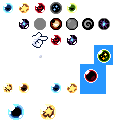
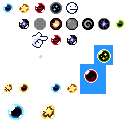
orb nomnom

Changed region(s): [[0.875, 0.125, 1.0, 0.25], [0.5, 0.0, 0.625, 0.125]]

diff --git a/Leore/Main/Orb.cs b/Leore/Main/Orb.cs
@@ -92,7 +92,12 @@ namespace Leore.Main
                 }
             } else
                 alpha = Math.Min(alpha + .1f, 1);
-            
+
+            Scale = new Vector2(1, 1);
+
+            if (Type == SpellType.KEYCHAIN)
+                Scale = new Vector2((int)player.Direction, 1);
+
             switch (State)
             {
                 case OrbState.FOLLOW:
@@ -134,8 +139,8 @@ namespace Leore.Main
 
                             TargetPosition = player.Position + new Vector2(Math.Sign((int)player.Direction) * (arcDst - .5f * Math.Abs(offY) / arcDst), offY);
                             break;
-                        case SpellType.KEYCHAIN:
-                            if (!ObjectManager.Exists<KeyChain>() && Visible) {
+                        case SpellType.KEYCHAIN:                            
+                            if (!ObjectManager.Exists<KeyChain>() && cooldown == 0) {
                                 new CrimsonBurstEmitter(X, Y)
                                 {
                                     ParticleColors = new List<Color> { Color.White },
@@ -213,15 +218,13 @@ namespace Leore.Main
                                     
                                     break;
 
-                                case SpellType.VOID:                                    
-                                    {
-                                        Visible = false;
-                                        VoidProjectile.Create(X, Y, this);
-                                    }
-
+                                case SpellType.VOID:
+                                    Visible = false;
+                                    VoidProjectile.Create(X, Y, this);                                    
                                     break;
 
-                                case SpellType.KEYCHAIN:                                    
+                                case SpellType.KEYCHAIN:
+                                    cooldown = 60;
                                     KeyChain.Create(X, Y);
                                     break;
 

diff --git a/Leore/Objects/Projectiles/KeyChain.cs b/Leore/Objects/Projectiles/KeyChain.cs
@@ -30,7 +30,7 @@ namespace Leore.Objects.Projectiles
         private KeyChain(float x, float y) : base(x, y)
         {
             orb.Visible = false;
-            Depth = orb.Depth + .0001f;
+            Depth = orb.Depth - .0002f;
             BoundingBox = new RectF(-4, -4, 8, 8);
             DrawOffset = new Vector2(8);
             direction = player.Direction;
@@ -64,8 +64,8 @@ namespace Leore.Objects.Projectiles
                 if (dist == 0)
                 {
                     direction = player.Direction;
-                    if (orb.State != OrbState.ATTACK)
-                        Destroy();
+                    //if (orb.State != OrbState.ATTACK)
+                    Destroy();
                 }
             }
 
@@ -91,12 +91,19 @@ namespace Leore.Objects.Projectiles
         {
             base.Draw(sb, gameTime);
 
+            sb.Draw(AssetManager.Projectiles[7], orb.Position, null, Color, Angle, DrawOffset, Scale, SpriteEffects.None, orb.Depth);
+
             for (var i = 0; i < dist; i+= 4)
             {
-                sb.Draw(AssetManager.Projectiles[7], orb.Position + new Vector2((int)direction * i, 0), null, Color, Angle, DrawOffset, Scale, SpriteEffects.None, Depth);
+                sb.Draw(AssetManager.Projectiles[8], orb.Position + new Vector2((int)direction * i, 0), null, Color, Angle, DrawOffset, Scale, SpriteEffects.None, Depth);
             }
             
-            sb.Draw(AssetManager.Projectiles[8], Position, null, Color, Angle, DrawOffset, Scale, SpriteEffects.None, Depth);
+            sb.Draw(AssetManager.Projectiles[9], Position, null, Color, Angle, DrawOffset, Scale, SpriteEffects.None, Depth);
+
+            if (key != null)
+            {
+                sb.Draw(key.Texture, Position + new Vector2((int)direction * 8, 0), null, Color, Angle, DrawOffset, Scale, SpriteEffects.None, Depth + .0001f);
+            }
         }
         
         public static void Create(float x, float y)

diff --git a/Leore/Main/GameManager.cs b/Leore/Main/GameManager.cs
@@ -305,6 +305,7 @@ namespace Leore.Main
             ObjectManager.Enable<Orb>();
             ObjectManager.Enable<Player>();
             ObjectManager.Enable<PlayerProjectile>();
+            ObjectManager.Enable<KeyChain>();
 
             // todo: solve more smoothly?
             foreach (var o in ObjectManager.Objects.Where(o => o is Enemy && (o as RoomObject).Room == room)) {
